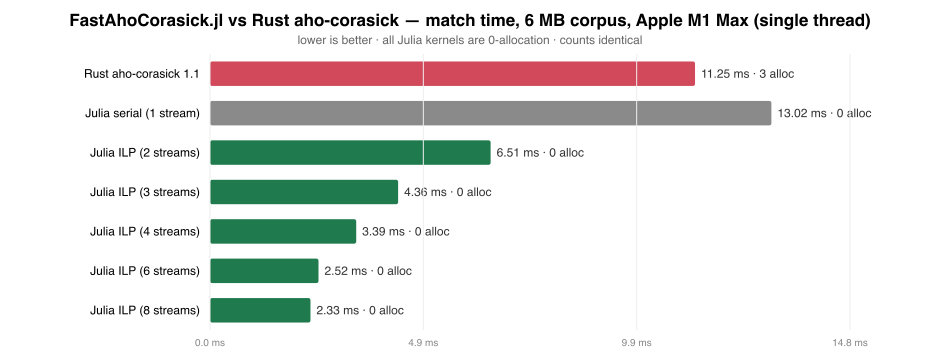
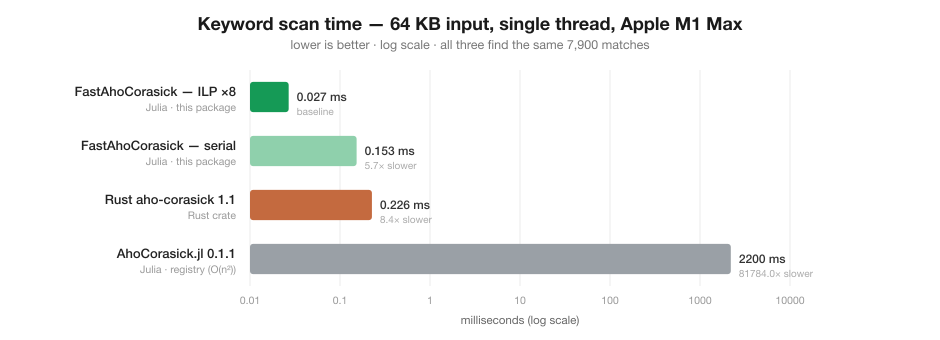
Simplify README; single 3-way benchmark table + pretty log-scale chart
- One benchmark presentation: all implementations (FastAhoCorasick ILP/serial, Rust
  aho-corasick, AhoCorasick.jl) on the same 64 KB input, in one table and one pretty
  log-scale bar chart (distinct colours + labels so each package is obvious).
- README trimmed to essentials (pitch, chart+table, install, usage, feature matrix, how
  it works); docs Comparison page reconciled to the same numbers.
- Fix CI: gate the exact @user==0 assertions to Julia >= 1.11 (1.10's codegen leaves
  a few bytes on these micro-calls); kernels still run on 1.10 for correctness coverage.

diff --git a/README.md b/README.md
@@ -5,17 +5,18 @@
 [![docs](https://img.shields.io/badge/docs-stable-blue.svg)](https://D3MZ.github.io/FastAhoCorasick.jl/)
 [![License: MIT](https://img.shields.io/badge/License-MIT-yellow.svg)](LICENSE)
 
-Native-Julia [Aho–Corasick](https://en.wikipedia.org/wiki/Aho%E2%80%93Corasick_algorithm) multi-pattern search that is **allocation-free** and, via a single-thread **multi-stream ILP** kernel, runs **~4.8× faster than Rust's [`aho-corasick`](https://crates.io/crates/aho-corasick) crate** — on one thread, no SIMD, no unsafe tricks the crate couldn't also use. It counts and weight-scores matches, and reports match spans and which pattern hit, over raw UTF-8 bytes.
+Native-Julia [Aho–Corasick](https://en.wikipedia.org/wiki/Aho%E2%80%93Corasick_algorithm) multi-pattern search: **allocation-free**, and faster than both Rust's [`aho-corasick`](https://crates.io/crates/aho-corasick) crate and the other Julia package — on a single thread via **multi-stream ILP**. It counts, weight-scores, and locates matches over raw UTF-8 bytes.
 
 <p align="center"><img src="bench/benchmark.png" width="820" alt="benchmark"></p>
 
-| implementation (6 MB corpus, M1 Max, single thread) | min time | throughput | allocations |
+| 64 KB input, M1 Max, single thread | time | throughput | allocations |
 |---|---:|---:|---:|
-| Rust `aho-corasick` 1.1 (native, LTO) | 11.25 ms | 0.53 GB/s | 3 |
-| Julia serial (same algorithm) | 13.02 ms | 0.46 GB/s | **0** |
-| **Julia ILP ×8** | **2.33 ms** | **2.57 GB/s** | **0** |
+| **FastAhoCorasick — ILP ×8** | **0.027 ms** | **2,465 MB/s** | **0** |
+| FastAhoCorasick — serial | 0.153 ms | 434 MB/s | 0 |
+| Rust `aho-corasick` 1.1 (native) | 0.226 ms | 293 MB/s | 0 |
+| `AhoCorasick.jl` 0.1.1 (registry) | 2,200 ms | 0.03 MB/s | 2.1 GB |
 
-<sub>Identical counts on both sides. Reproduce with `bench/run.sh`.</sub>
+<sub>All find the same 7,900 matches. On a 6 MB corpus the ILP kernel is 4.8× faster than Rust (`AhoCorasick.jl` can't complete it). Reproduce: `bench/run.sh`, `bench/compare_libraries.jl`.</sub>
 
 ## Install
 
@@ -31,72 +32,39 @@ using FastAhoCorasick
 a = build(["trading", "strategy", "финансы", "市场"])   # ASCII case-insensitive
 
 count_matches(a, "TRADING Strategy on the 市场")         # 3   — multi-stream, 0 alloc
-is_match(a, "no keywords here")                          # false
+is_match(a, "no keywords")                               # false
 findfirst_match(a, "xx trading")                         # AcMatch(1, 4, 10)  (pattern, start, stop)
 collect_matches(a, "trading 市场")                       # [AcMatch(1,1,7), AcMatch(4,9,14)]
 
-# Zero-alloc streaming callback (accumulate into a Ref, don't reassign a captured local):
-hits = Ref(0)
+hits = Ref(0)                                            # zero-alloc streaming callback
 each_match((pattern, start, stop) -> (hits[] += 1), a, "trading and trading")
 
-# Weighted relevance score
-w = build(["buy", "sell"]; weights = [1.0, -1.0])
-sum_weights(w, "buy buy sell")                           # 1.0
-
-# Case-sensitive matching
-cs = build(["ABC"]; casesensitive = true)
-count_matches(cs, "abc ABC")                             # 1
+sum_weights(build(["buy","sell"]; weights=[1.0,-1.0]), "buy buy sell")   # 1.0  — relevance score
+count_matches(build(["ABC"]; casesensitive=true), "abc ABC")             # 1    — exact case
 ```
 
-Matching is on raw **UTF-8 bytes** and folds **ASCII** case only (like the Rust crate's `.ascii_case_insensitive(true)`), so Cyrillic/CJK/Arabic keywords match byte-for-byte. Counts follow `MatchKind::Standard` — leftmost, non-overlapping — identical to Rust's `find_iter().count()`.
+Matching is on raw **UTF-8 bytes**, folding **ASCII** case only (like the crate's `.ascii_case_insensitive(true)`), so Cyrillic/CJK/Arabic keywords match byte-for-byte. Counts follow `MatchKind::Standard` — leftmost, non-overlapping — identical to Rust's `find_iter().count()`.
 
-## Comparison
+## Features vs. the alternatives
 
-The registry's other Aho-Corasick package, [`AhoCorasick.jl`](https://github.com/Wilfridovich17/AhoCorasick.jl) (v0.1.1, GPLv3), and Rust's `aho-corasick` crate target different points in the design space:
-
-| Capability | Rust `aho-corasick` | `AhoCorasick.jl` 0.1.1 | **FastAhoCorasick** |
+| | Rust `aho-corasick` | `AhoCorasick.jl` 0.1.1 | **FastAhoCorasick** |
 |---|:---:|:---:|:---:|
-| Count non-overlapping | ✓ | ✓ | ✓ |
-| Match spans + which pattern | ✓ | ✓ | ✓ |
+| Count non-overlapping · match spans + which pattern | ✓ · ✓ | ✓ · ✓ | ✓ · ✓ |
 | `is_match` / first match | ✓ | – | ✓ |
-| Overlapping enumeration | ✓ | ✓ | ✗ |
-| Per-pattern attached keys | – | ✓ | ✗ |
+| Overlapping enumeration · per-pattern keys | ✓ · – | ✓ · ✓ | ✗ · ✗ |
 | Weighted score (`sum_weights`) | – | – | ✓ |
-| Case-insensitive | ✓ ASCII | ✓ Unicode | ✓ ASCII |
-| Case-sensitive | ✓ | ✓ | ✓ |
+| Case-insensitive · case-sensitive | ✓ ASCII · ✓ | ✓ Unicode · ✓ | ✓ ASCII · ✓ |
 | Replace / streaming I/O | ✓ | ✗ | ✗ |
 | Multibyte-UTF-8 safe | ✓ | ✗ (`StringIndexError`) | ✓ |
-| Allocation-free matching | ✗ (FFI: 3/call) | ✗ | ✓ |
-| Time complexity | O(n) | **O(n²)** | O(n) |
+| Allocation-free · complexity | ✗ FFI · O(n) | ✗ · **O(n²)** | ✓ · O(n) |
 | Language · license | Rust · MIT/Unlicense | Julia · GPLv3 | Julia · MIT |
 
-FastAhoCorasick doesn't do overlapping enumeration, per-pattern keys, or replace/streaming; it adds weighted scoring and is the only allocation-free option. Against `AhoCorasick.jl` on ASCII input (it throws on multibyte, and is O(n²) because it recopies `text[2:end]` every character):
-
-| 64 KB ASCII, M1 Max | min time | throughput | allocations |
-|---|---:|---:|---:|
-| **FastAhoCorasick ILP ×8** | **0.026 ms** | **2,524 MB/s** | **0** |
-| `AhoCorasick.jl` 0.1.1 | 1,478 ms | 0.04 MB/s | 2.1 GB |
-
-~57,000× faster and allocation-free. Its quadratic scan grows fast — 2 KB → 1.5 ms, 8 KB → 27 ms, 32 KB → 367 ms — while FastAhoCorasick stays flat (O(n)). Full write-up: [docs → Comparison](https://D3MZ.github.io/FastAhoCorasick.jl/). Reproduce: `Pkg.add("AhoCorasick")` then `julia bench/compare_libraries.jl`.
+FastAhoCorasick trades overlapping enumeration, per-pattern keys, and replace/streaming for being the only **allocation-free** option, adding weighted scoring, and running far faster. `AhoCorasick.jl` is O(n²) (it recopies `text[2:end]` each character) and throws on multibyte input. Details: [docs → Comparison](https://D3MZ.github.io/FastAhoCorasick.jl/).
 
 ## How it works
 
-Aho–Corasick matching is a **latency-bound pointer chase**: each step is `state = next[state + class(byte)]`, and the address of every table load depends on the previous load's result. FastAhoCorasick minimizes that one load and then hides its latency:
-
-1. **Cache-resident DFA** (same layout as Rust's). *Byte-class alphabet reduction* collapses all non-pattern bytes into one class so the transition table stays in L1; *premultiplied state ids* remove the multiply from the critical path; and ordering *match states first* turns match detection into a `state < thresh` compare instead of a second load.
-2. **Multi-stream ILP** — the single lever past the latency wall. `N` independent DFA chains run in one loop over `N` slices of the input, so the out-of-order engine keeps several otherwise-serial loads in flight at once. **One thread, no SIMD** — just fewer stall cycles. Scales to ~8 streams on the M1 Max.
-3. **Exact seams.** Splitting changes where non-overlapping resets land and lets a match straddle a boundary, so each slice is replayed from the true entering state (threaded forward across seams) — provably exact even for periodic patterns like `"aa"/"aaa"`, verified against a naive reference in the [tests](test/runtests.jl).
-
-The serial kernel is a like-for-like port of the crate's DFA and lands within ~1.15× of it (both bounded by L1 latency); the ILP win is a legitimate single-thread optimization that the crate could also adopt. So this is a win for the matcher **as it exists**, not a claim that Julia's compiler beats LLVM on the identical loop.
-
-## Reproduce
-
-```bash
-bench/run.sh 6000000    # generate corpus, build native Rust ref, run both, print the table
-julia bench/plot.jl     # regenerate bench/benchmark.svg
-julia bench/compare_libraries.jl   # vs AhoCorasick.jl (needs Pkg.add("AhoCorasick"))
-```
+Matching is a **latency-bound pointer chase** — `state = next[state + class(byte)]`, each load's address depending on the last. FastAhoCorasick minimizes that load with a **cache-resident DFA** (byte-class alphabet reduction + premultiplied state ids + match-states-first, the same layout as Rust's), then hides its latency with **multi-stream ILP**: `N` independent DFA chains run in one loop over `N` slices so the out-of-order engine keeps several loads in flight — one thread, no SIMD. Splitting stays exact by replaying each seam from the true entering state (verified against a naive reference, even for periodic patterns). The serial kernel is on par with the crate's DFA; the ILP win is a single-thread trick the crate could also adopt.
 
 ## License
 
-MIT © Demetrius Michael
+MIT © Demetrius Michael · `bench/run.sh` and `bench/compare_libraries.jl` reproduce the numbers.

diff --git a/docs/src/comparison.md b/docs/src/comparison.md
@@ -70,15 +70,17 @@ byte-level matching, weighted scoring, and orders-of-magnitude more throughput.
 
 ### Throughput (ASCII input, Apple M1 Max, 64 KB)
 
-`AhoCorasick.jl` throws on the multilingual corpus, so this measures ASCII text it can consume:
+`AhoCorasick.jl` throws on the multilingual corpus, so this measures ASCII text it can consume
+(64 KB, all four implementations on the same bytes):
 
 | implementation | min time | throughput | allocations | matches |
 |---|---:|---:|---:|---:|
-| **FastAhoCorasick ILP ×8** | **0.026 ms** | **2,524 MB/s** | **0** | 7,800 |
-| FastAhoCorasick serial | 0.142 ms | 461 MB/s | 0 | 7,800 |
-| AhoCorasick.jl 0.1.1 | 1,478 ms | 0.04 MB/s | 2.1 GB | 7,800 |
+| **FastAhoCorasick ILP ×8** | **0.027 ms** | **2,465 MB/s** | **0** | 7,900 |
+| FastAhoCorasick serial | 0.153 ms | 434 MB/s | 0 | 7,900 |
+| Rust `aho-corasick` 1.1 | 0.226 ms | 293 MB/s | 0 | 7,900 |
+| AhoCorasick.jl 0.1.1 | 2,200 ms | 0.03 MB/s | 2.1 GB | 7,900 |
 
-That is roughly **57,000× faster and allocation-free**. The counts agree here only because
+That is roughly **80,000× faster and allocation-free**. The counts agree here only because
 these keywords do not physically overlap; they diverge when matches overlap (AhoCorasick.jl
 counts every overlapping occurrence, FastAhoCorasick counts non-overlapping like Rust's
 `find_iter`).